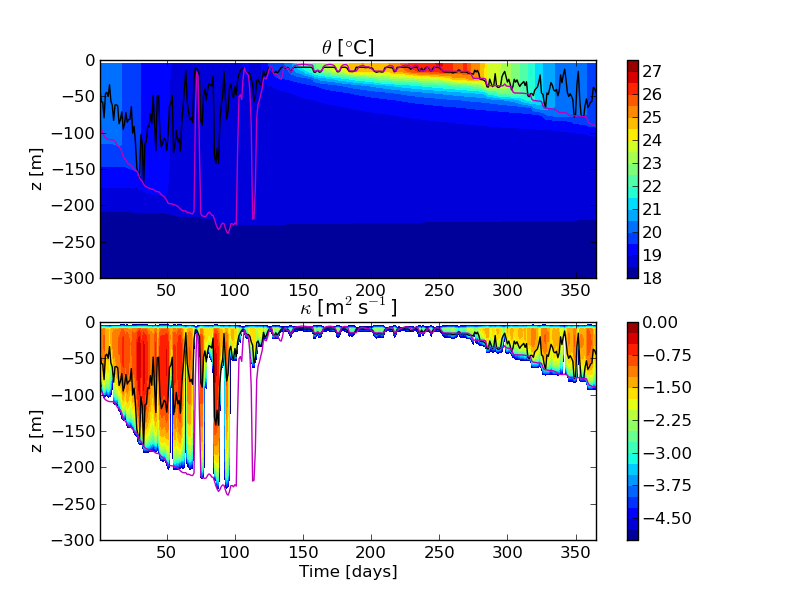
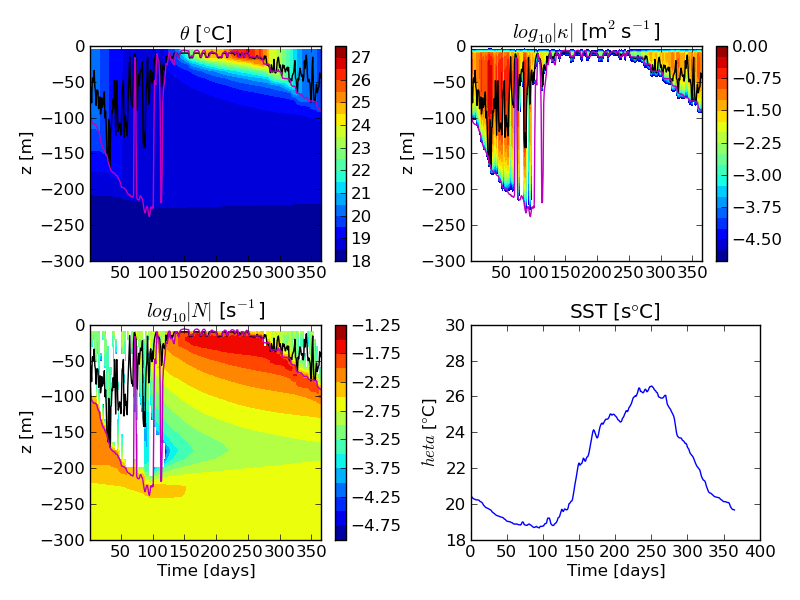
Updated BML and KPP plots to show N^2 and SST
- Modified plots to show four panels instead of two.
- Added plot for single_column/ bulk mixed layer.
- No answer/code changes.

diff --git a/examples/solo_ocean/single_column_z/plotKPP.py b/examples/solo_ocean/single_column_z/plotKPP.py
@@ -1,28 +1,44 @@
 #!/usr/bin/env python
 
 import netCDF4
-import matplotlib.pyplot as plt
 import numpy
+import matplotlib.pyplot as plt
+from matplotlib.colors import BoundaryNorm
 
 z = netCDF4.Dataset('prog.nc').variables['zl'][:]
 zi = netCDF4.Dataset('prog.nc').variables['zi'][:]
 t = netCDF4.Dataset('prog.nc').variables['Time'][:]
 T = netCDF4.Dataset('prog.nc').variables['temp'][:,:,0,0]
+e = netCDF4.Dataset('prog.nc').variables['e'][:,:,0,0]
 h = netCDF4.Dataset('visc.nc').variables['KPP_OBLdepth'][:,0,0]
 K = netCDF4.Dataset('visc.nc').variables['KPP_Kheat'][:,:,0,0]
 mld = netCDF4.Dataset('visc.nc').variables['MLD_003'][:,0,0]
+N2 = netCDF4.Dataset('visc.nc').variables['KPP_N2'][:,:,0,0]
 
 nk=27
-plt.subplot(2,1,1)
+cmap = plt.get_cmap()
+plt.subplot(2,2,1)
 plt.contourf(t, -z[:nk], T[:,:nk].T, levels=numpy.arange(18.,28,.5)); plt.ylim(-300,0); plt.colorbar()
 plt.plot(t,-h,color='k',hold=True)
 plt.plot(t,-mld,color='m',hold=True)
 plt.ylabel('z [m]'); plt.title(r'$\theta$ [$\degree$C]')
-plt.subplot(2,1,2)
+plt.subplot(2,2,2)
 plt.contourf(t, -zi[:nk], numpy.log10( numpy.maximum(K[:,:nk].T,1e-8) ), levels=numpy.arange(-5,.25,.25) ); plt.ylim(-300,0); plt.colorbar()
 plt.plot(t,-h,color='k',hold=True)
 plt.plot(t,-mld,color='m',hold=True)
-plt.ylabel('z [m]'); plt.title(r'$\kappa$ [m$^2$s$^{-1}$]')
+plt.ylabel('z [m]'); plt.title(r'$log_{10}|\kappa|$ [m$^2$s$^{-1}$]')
+plt.subplot(2,2,3)
+norm = BoundaryNorm(numpy.arange(-5.,-1.,.25), ncolors=cmap.N)
+#plt.pcolormesh(t+0*e[:,:nk+1].T, e[:,:nk+1].T, 0.5*numpy.log10( numpy.maximum(N2[:,:nk].T,0e-12) ), cmap=cmap, norm=norm); plt.xlim(0,365); plt.ylim(-300,0); plt.colorbar()
+plt.contourf(t, -zi[:nk], 0.5*numpy.log10( numpy.maximum(N2[:,:nk].T,0e-12) ), levels=numpy.arange(-5.,-1.,.25) ); plt.ylim(-300,0); plt.colorbar()
+plt.plot(t,-h,color='k',hold=True)
+plt.plot(t,-mld,color='m',hold=True)
+plt.ylabel('z [m]'); plt.title(r'$log_{10}|N|$ [s$^{-1}$]')
 plt.xlabel('Time [days]')
-plt.savefig('KPP.png')
+plt.subplot(2,2,4)
+plt.plot(t,T[:,0]); plt.ylim(18,30)
+plt.ylabel('$\theta$ [$\degree$C]'); plt.title(r'SST [s$\degree$C]')
+plt.xlabel('Time [days]')
 
+plt.tight_layout()
+plt.savefig('KPP.png')

diff --git a/examples/solo_ocean/single_column/plotBML.py b/examples/solo_ocean/single_column/plotBML.py
@@ -1,24 +1,40 @@
 #!/usr/bin/env python
 
 import netCDF4
-import matplotlib.pyplot as plt
 import numpy
+import matplotlib.pyplot as plt
+from matplotlib.colors import BoundaryNorm
 
 t = netCDF4.Dataset('prog.nc').variables['Time'][:]
 T = netCDF4.Dataset('prog.nc').variables['temp'][:,:,0,0]
 e = netCDF4.Dataset('prog.nc').variables['e'][:,:,0,0]
 K = netCDF4.Dataset('visc.nc').variables['Kd_interface'][:,:,0,0]
 mld = netCDF4.Dataset('visc.nc').variables['MLD_003'][:,0,0]
+N2 = netCDF4.Dataset('visc.nc').variables['KPP_N2'][:,:,0,0]
 
 nk=63
-plt.subplot(2,1,1)
-plt.contourf(t+0*e[:,:nk].T, e[:,:nk].T, T[:,:nk].T, levels=numpy.arange(18.,28,.5)); plt.ylim(-300,0); plt.colorbar()
+plt.subplot(2,2,1)
+cmap = plt.get_cmap();
+norm = BoundaryNorm(numpy.arange(16,29.5,.5), ncolors=cmap.N)
+plt.pcolormesh(t+0*e[:,:nk+1].T, e[:,:nk+1].T, T[:,:nk].T, cmap=cmap, norm=norm); plt.xlim(0,365); plt.ylim(-300,0); plt.colorbar()
 plt.plot(t,-mld,color='m',hold=True)
 plt.ylabel('z [m]'); plt.title(r'$\theta$ [$\degree$C]')
-plt.subplot(2,1,2)
+plt.subplot(2,2,2)
 plt.contourf(t+0*e[:,:nk].T, e[:,:nk].T, numpy.log10( numpy.maximum(K[:,:nk].T,1e-8) ), levels=numpy.arange(-5,.25,.25) ); plt.ylim(-300,0); plt.colorbar()
 plt.plot(t,-mld,color='m',hold=True)
-plt.ylabel('z [m]'); plt.title(r'$\kappa$ [m$^2$s$^{-1}$]')
+plt.ylabel('z [m]'); plt.title(r'$log_{10}|\kappa$| [m$^2$s$^{-1}$]')
+plt.subplot(2,2,3)
+norm = BoundaryNorm(numpy.arange(-5.,-1.,.25), ncolors=cmap.N)
+plt.pcolormesh(t+0*e[:,:nk+1].T, e[:,:nk+1].T, 0.5*numpy.log10( numpy.maximum(N2[:,:nk].T,0e-12) ), cmap=cmap, norm=norm); plt.xlim(0,365); plt.ylim(-300,0); plt.colorbar()
+#plt.contourf(t+0*e[:,:nk].T, e[:,:nk].T, 0.5*numpy.log10( numpy.maximum(N2[:,:nk].T,0e-12) ), levels=numpy.arange(-5.,-1.,.25) ); plt.ylim(-300,0); plt.colorbar()
+plt.plot(t,-mld,color='m',hold=True)
+plt.ylabel('z [m]'); plt.title(r'$log_{10}|N|$ [s$^{-1}$]')
 plt.xlabel('Time [days]')
+plt.subplot(2,2,4)
+plt.plot(t,T[:,0]); plt.ylim(18,30)
+plt.ylabel('$\theta$ [$\degree$C]'); plt.title(r'SST [s$\degree$C]')
+plt.xlabel('Time [days]')
+
+plt.tight_layout()
 plt.savefig('BML.png')
 
